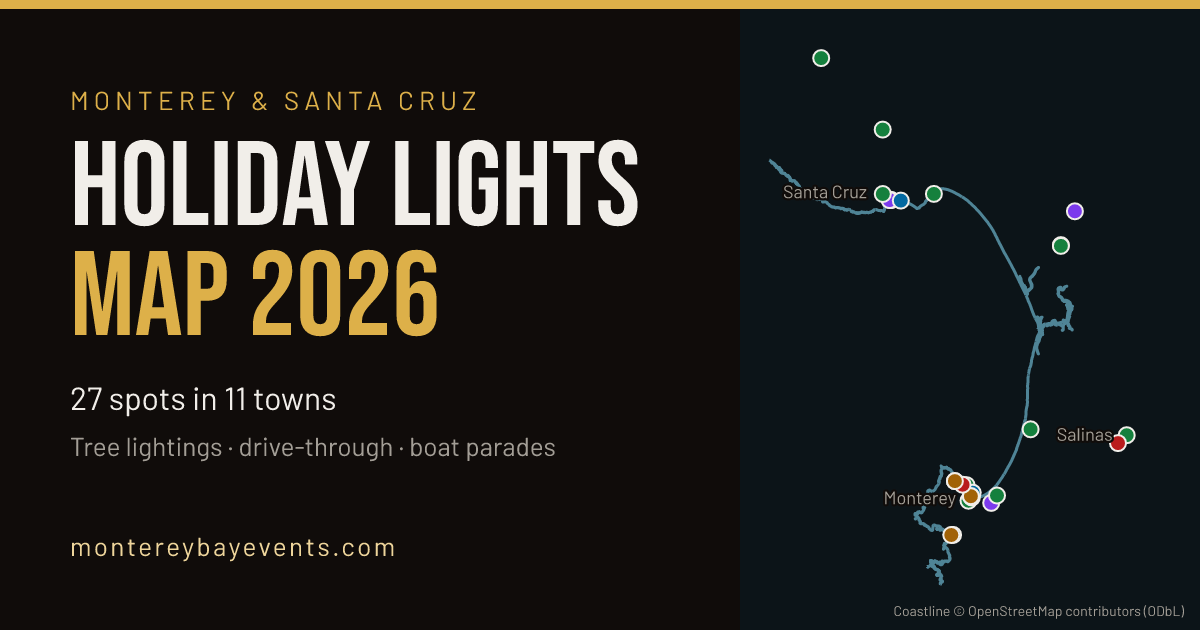
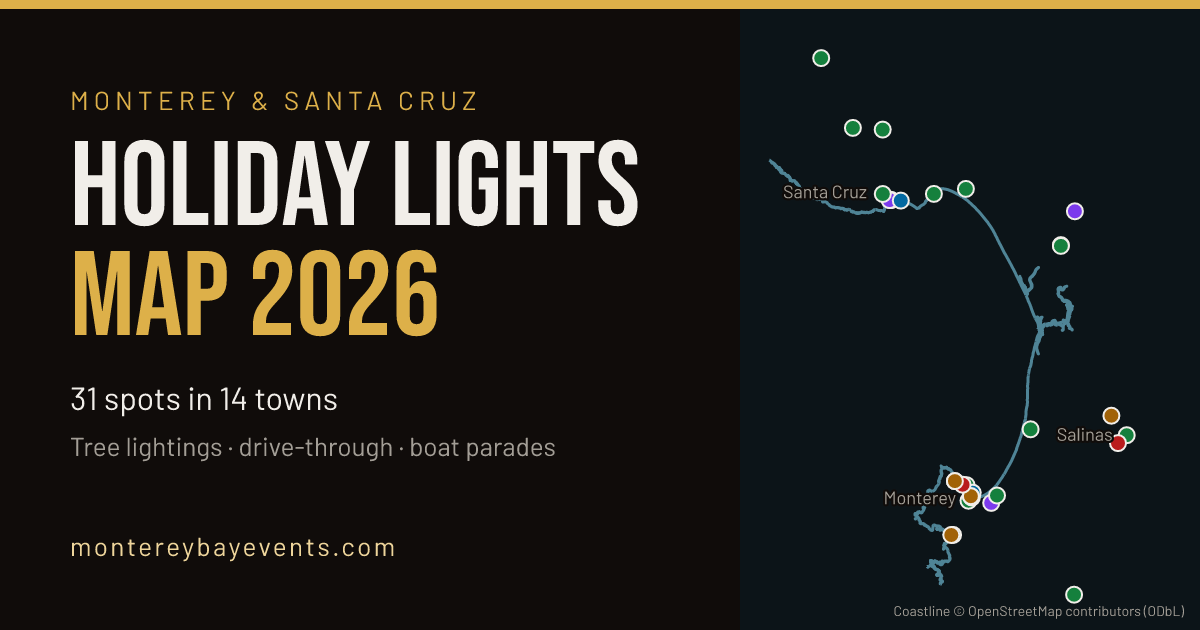
v2.T — lights map review fixes: +4 spots (31, 14 towns), wharf hours, route wording, form
- New: Carmel Valley, Aptos and Felton tree lightings; Illumination at the Boronda Adobe
- Christmas on the Wharf: published Santa hours replace the unpublished 9am–10pm lit hours
- Santa Cruz route timing, "routes" not loops, tree-lighting count includes the Boardwalk drone show
- Season dates derived from data (21 Nov); suggest form marks required fields, honeypot unlabelled
- Outreach counts, OG image, PRD row updated

diff --git a/src/__tests__/holidayLights.test.js b/src/__tests__/holidayLights.test.js
@@ -79,3 +79,47 @@ describe('guide links', () => {
     expect(src).not.toMatch(/label: "[^"]*→",/);
   });
 });
+
+// Review fixes, 2026-11-24.
+describe.skipIf(!existsSync(join(root, 'dist', 'holiday-lights', 'index.html')))('/holiday-lights/ review fixes (built)', () => {
+  const html = readFileSync(join(root, 'dist', 'holiday-lights', 'index.html'), 'utf8');
+  const text = html.replace(/<[^>]+>/g, ' ').replace(/\s+/g, ' ');
+
+  it('publishes no lit-hours figure for Christmas on the Wharf', () => {
+    expect(html).not.toContain('9am–10pm');
+    expect(html).not.toContain('lit to 10pm');
+  });
+
+  it('counts the Boardwalk drone show among the tree lightings', () => {
+    const n = data.entries.filter((e) => e.category === 'tree-lighting' || /tree lighting/i.test(e.name)).length;
+    expect(text).toContain(`${n} tree lightings between`);
+  });
+
+  it('starts the season on the earliest date in the data', () => {
+    const first = data.entries.map((e) => e.range?.from ?? e.nights[0]).sort()[0];
+    expect(first).toBe('2026-11-21');
+    expect(text).toContain('21 November 2026 – 3 January 2027');
+  });
+
+  it('describes the Santa Cruz timing as the data has it', () => {
+    expect(text).not.toContain('within half an hour');
+    expect(text).toContain('between 5pm and 6pm');
+  });
+
+  it('calls them routes, not loops', () => {
+    expect(text).not.toMatch(/\bloops?\b/i);
+  });
+
+  it('marks required suggest fields and has no visible honeypot label', () => {
+    expect(html).not.toContain('Leave empty');
+    expect((html.match(/aria-required="true"/g) ?? []).length).toBe(2);
+    expect(text).toContain('are required');
+  });
+});
+
+describe('holiday lights towns', () => {
+  it('lists every town in the data in LIGHTS_TOWNS order', () => {
+    const src = readFileSync(join(root, 'src', 'data', 'holidayLights.ts'), 'utf8');
+    for (const t of new Set(data.entries.map((e) => e.town))) expect(src, t).toContain(`"${t}"`);
+  });
+});

diff --git a/src/data/holidayLights.ts b/src/data/holidayLights.ts
@@ -44,8 +44,8 @@ export const lights = raw.entries as LightsEntry[];
 
 /** Towns in map order: Monterey Peninsula, Salinas Valley, Pajaro, then Santa Cruz County north. */
 export const LIGHTS_TOWNS = [
-  "Monterey", "Pacific Grove", "Carmel", "Seaside", "Marina", "Salinas",
-  "Watsonville", "Capitola", "Santa Cruz", "Scotts Valley", "Boulder Creek",
+  "Monterey", "Pacific Grove", "Carmel", "Carmel Valley", "Seaside", "Marina", "Salinas",
+  "Watsonville", "Aptos", "Capitola", "Santa Cruz", "Scotts Valley", "Felton", "Boulder Creek",
 ] as const;
 
 export const firstNight = (e: LightsEntry) => e.range?.from ?? e.nights![0]!;

diff --git a/docs/prd.md b/docs/prd.md
@@ -138,7 +138,7 @@ Two-level versioning convention (canonical: `sites/portfolio/AI_AGENTS.md`):
 | **v2.Q** | `/events/pacific-grove/` — the first city hub | Lifts the v1.B city-hub deferral for **one** town, on the operator's direction 2026-11-01. Evidence it was due: GSC (Aug 1 – Oct 30) shows real Pacific Grove demand — the Butterfly Parade page at pos 2.6–4.9 for its variants (81 clicks), "pacific grove events today" at pos 1 on `/events/october/`, and "pacific grove car show" scattered over five pages at pos 25–93 with no page that owns it. Ahrefs had no API units left, so no external volume figure exists for "pacific grove events". (1) **URL `/events/pacific-grove/`**, a static route beside `[month].astro` — the shape every later city hub copies. (2) **Built entirely from the data:** 3 regional rows whose city is Pacific Grove, rows whose CSV city text names it (half marathon, labelled "partly"), the 6 Car Week 2026 events whose venue address is in town (4 free per `access`), and the Monday farmers market. Direct answer, weekend answer and FAQ are computed at build, so the daily rebuild keeps them current. Schema: CollectionPage + ItemList (9) + BreadcrumbList + FAQPage (5). (3) **`src/data/cityHubs.ts`** is the registry; event pages ("More events in {city} →"), the homepage town list and `/events/` link a town only when it is there. **Scoped:** the event-page link renders on the 3 Pacific Grove pages only, and the homepage change touches the one town. Footer and nav untouched. (4) **Trap:** after 14 Nov the hub has no upcoming dated row until the 2027 calendar exists; the empty state says so rather than padding. Other towns stay deferred — add one only with its own evidence | ✅ shipped — live (deploy confirmed 2026-11-01). IndexNow pinged for the event page, the hub, `/events/november/` and `/events/` |
 | **v2.R** | Aria page sourced line-by-line; regional address spacing; Car Week notices seasonal | Operator brief 2026-11-01. (1) **Aria content audited against the choir's two pages** and anything on neither removed: the email's **2:30pm door time** (so `doorTime` no longer emits), "gospel and spirituals", "twelfth-century abbess", "Renaissance". Monteverdi is "early Baroque" on the operator's word. Meta description set to the operator's text. Sources: prices, fees, "the Butterfly Church", performers and per-piece composers from `ariamonterey.ticketspice.com/aria-where-mercy-dwells`; 3:00pm, the address and the timed programme (3:00–3:25, 15-min intermission, 3:40–4:05, "Finish time: 4:05pm") from `ariamonterey.org/dbpage.php?dbase=events&id=348597&pg=view`. **The two pages disagree twice**, and the page states the first rather than resolving it: TicketSpice's Act I has a seventh piece (Great Is Thy Faithfulness) the timed programme lacks — so **no `endDate` is emitted** — and TicketSpice gives "915 Sunset Ave" where the choir's page gives "Dr". (2) **"Pacific Grove , Monterey County"** — Astro renders the newline between adjacent `{}` expressions as a space; the Where block is now one expression. Was on all 54 regional `/event/` pages; 0 after. (3) **`src/data/season.ts`** — `CAR_WEEK_SEASON = { from: "07-01", to: "08-31" }`, month-day with no year, evaluated at build and flipped by the daily rebuild. Gates every "Text CARWEEK" mention (footer on every page, `/traffic/` card and transit entry, the Car Week hub's "Before you drive" sentence) and the Car Week paragraph at the foot of every regional event page, whose copy is now year-neutral instead of "ran August 7–16" / "runs August 7–16". Nav links, listings and Car Week pages are not notices and are not gated. Verified both ways by building with a widened range: 125 pages carry CARWEEK in season, 0 now | ✅ shipped — live (deploy confirmed 2026-11-01). IndexNow pinged for the event URL |
 | **v2.S** | Thanksgiving weekend 2026: `/thanksgiving/` hub + holiday event pages | Operator brief 2026-11-24, deadline Wed 25 Nov. (1) **Event pages** on the regional `/event/<slug>/` template for Cannery Row Holiday Tree Lighting (Fri 27 Nov), Pacific Grove Christmas Tree Lighting (Mon 30 Nov; venue conflict Grand & Forest vs Jewell Park to resolve from the City), Carmel Holiday Tree Lighting + Carmel Plaza party (Fri 4 Dec), and the 2026 turkey trots (Monterey, Santa Cruz, Salinas, Carmel, Capitola) and Black Friday / Small Business Saturday events (Carmel, PG, downtown Santa Cruz, Capitola). Every date, time and venue checked on the organiser's or city's own page; unverifiable events skipped and listed; source URL on each page. (2) **`/thanksgiving/` hub** titled "Thanksgiving Weekend 2026 in Monterey & Santa Cruz (Nov 26–29)": events by day Thu–Sun, sections for turkey trots, tree lightings, shopping, and Thanksgiving Day things to do (Boardwalk Winter Wonderland, beaches, hikes, aquarium — hours only where sourced); FAQ with FAQPage JSON-LD; ItemList JSON-LD. (3) **Nav + homepage:** header nav "Car Week" → "Holidays" (→ `/thanksgiving/`) until 4 Jan, gated by a date range in `src/data/season.ts` (Car Week stays in the footer); Thanksgiving banner above "This weekend"; "This weekend" shows the new events. (4) **Internal links** from `/events/november/`, `/events/december/`, the homepage Holidays category tile and `/events/pacific-grove/` only (no other town hubs exist; operator chose not to build them). (5) **Ship:** sitemap (not broken — `/sitemap-index.xml` 200, robots points there; `/sitemap.xml` was never a URL), IndexNow for every new and changed URL, JSON-LD checked with a schema validator (Google's Rich Results Test has no API). Placed ahead of the maps (now v2.U–v2.X) for the date. **Built:** 13 new regional rows (CSV 62 → 75), each checked on the organiser's or city's own page 2026-11-24: CVAC Turkey Trot, Run For Pie (Soquel), Ice Skating by the Bay, Cannery Row tree lighting, Carmel Plaza Black Friday, Makers Market pop-up (SC), Surfin' Santa (Capitola), Salinas Tree For Peace, Salinas Parade of Lights, Sparky's Holiday Lights (Watsonville), Winter Wonderfest Monterey (Fairgrounds), PG tree lighting, Carmel Holidays in the Park; Winter Wonderland row given the Boardwalk's press-release facts. **Corrections to the brief:** Cannery Row runs 2–9pm with the lighting ~5:45–6 (not 5–7) and its page gives no "700 Cannery Row"; PG is at Jewell Park per the City and ends 7:30pm; Carmel's times are only on Visit Carmel (City's detail page 403) so they are `unconfirmed` and kept out of JSON-LD. **Skipped:** Santa Cruz Turkey Trot (Sat 21 Nov), no 2026 turkey trot found for Monterey/PG/Salinas/Capitola, no PG Black Friday/SBS event, downtown SC sidewalk sale (2020 page), Roaring Camp Holiday Lights Train (no year on its page). **Unverified and said so on the page:** Boardwalk daily hours and the aquarium's Thanksgiving hours (both sites block automated reads). **Nav:** `holidayNavItem()` in `season.ts` → BaseLayout passes it to the header island as a prop (computed at build, so hydration matches); Holidays → `/thanksgiving/` to 29 Nov, then `/events/december/`, until 4 Jan. Header test rewritten to allow the seasonal slot. Suite green 385 + 51. **Trap:** the homepage banner and the Thanksgiving→December nav switch both depend on the daily rebuild Worker. | ✅ live (deploy confirmed 2026-11-24, ed0819a; IndexNow 20 URLs) |
-| **v2.T** | Holiday Lights Map 2026 at `/holiday-lights/` | Operator brief 2026-11-24, deadline Fri 27 Nov; a link-earning page. (1) **Data** in `data/holiday-lights-2026.json`: tree lightings, decorated downtowns, drive/walk-through displays, lighted boat parades, ice rinks, Boardwalk Winter Wonderland, Christmas in the Adobes, decorated neighbourhoods. Fields: name, category, town, address, lat/lng, dates, hours, cost, free, parking tip, source URL, last_verified. An entry ships only when an official/organiser page — or, for neighbourhood displays, a local news outlet — confirms it for 2026; Reddit may surface candidates but is never the source (operator 2026-11-24). Coordinates geocoded from OSM. Aim 40+ across 13 towns; the count is whatever verifies, never padded. Skipped entries listed. (2) **Page:** Leaflet + OSM map (markers by category; filters town / category / free / open tonight), server-rendered list by town below it, three route loops (Monterey Peninsula, Santa Cruz, Salinas/Watsonville) with Google Maps directions links, Free and Best-for-kids callouts, embed box (iframe linking back), FAQ + FAQPage JSON-LD, ItemList + Event JSON-LD for dated entries, OG image (static map + title). (3) **Suggest a spot:** Pages Function writes submissions to a KV namespace for operator review; nothing auto-publishes (operator 2026-11-24). (4) **SEO + links:** title "Holiday Lights Map 2026 — Monterey & Santa Cruz Christmas Lights (40+ Spots)" (count claim only if true); mobile first, Lighthouse 90+; linked from the homepage banner, Holidays nav, `/thanksgiving/`, `/events/december/`, `/events/pacific-grove/` and holiday event pages; sitemap; IndexNow. (5) **Outreach drafts** (not sent) in `outreach/holiday-lights-pitches.md`: 120-word pitch for Monterey Bay Parent, KION, KSBW, Monterey County Weekly, Santa Cruz Local, Lookout Santa Cruz; posts for r/monterey and r/santacruz. **Built:** 27 entries in 11 towns (Monterey 7, Santa Cruz 5, Pacific Grove 3, Watsonville 3, Carmel 2, Salinas 2, Seaside, Marina, Capitola, Scotts Valley, Boulder Creek 1 each); 11 free. The 40+ target did not verify, so the title carries no count (operator 2026-11-24: drop the number). Four entries whose source page prints no year ship with a visible note (operator: include all four): Noche de Brillo, Watsonville Holiday Lights in the Plaza, PG Holiday at the Inns (Tue 8 Dec only fits 2026), Boulder Creek Winter Festival; the Holiday Lights Train's year comes from the Boardwalk page, not Roaring Camp's. No decorated neighbourhood had 2026 local-news coverage, so none ship. Skipped: downtown SC Holiday Parade (daytime), Del Monte Center tree lighting (aggregator only), Roaring Camp Tree Walk (no year), Farley's / SC Holiday Glow Guide (2025 only), Felton tree lighting (aggregator), Candy Cane Lane and other street displays (blogs or old articles only). Coordinates: OSM Nominatim (`scripts/geocode-lights.py`); Jewell Park, Vince DiMaggio Park, both inn tours and Boulder Creek pin to the town and say so. Leaflet 1.9.4 + OSM tiles, lazy-loaded on scroll; circle markers. `/holiday-lights/embed/` is noindex, out of the sitemap, and the only path with X-Frame-Options lifted. Suggest a spot: `functions/api/suggest-spot.js` → KV binding `LIGHTS_SUGGESTIONS` (returns 503 until the binding exists). OG card `public/maps/og-holiday-lights.png` from `gen-maps.mjs` with an OSM coastline (`data/geo/monterey-bay-coast.osm.json`). Links: Holidays nav → `/holiday-lights/` after Thanksgiving, homepage banner to 3 Jan, Nov/Dec hubs, `/thanksgiving/`, `/events/pacific-grove/`, guideLink on 7 holiday rows (rink, Boardwalk WW, Carmel, Sparky's, Wonderfest, Adobes, SC boat parade). Also fixed: v2.S guideLink labels rendered a double arrow (14 rows). Outreach drafts in `outreach/holiday-lights-pitches.md`, unsent. Suite green 393 + 51. Lighthouse not run locally (no Chrome-capable Node); check with PageSpeed Insights after deploy. | ✅ live (deploy confirmed 2026-11-24, b815732; KV form verified; IndexNow 22 URLs; PSI pending — API quota) |
+| **v2.T** | Holiday Lights Map 2026 at `/holiday-lights/` | Operator brief 2026-11-24, deadline Fri 27 Nov; a link-earning page. (1) **Data** in `data/holiday-lights-2026.json`: tree lightings, decorated downtowns, drive/walk-through displays, lighted boat parades, ice rinks, Boardwalk Winter Wonderland, Christmas in the Adobes, decorated neighbourhoods. Fields: name, category, town, address, lat/lng, dates, hours, cost, free, parking tip, source URL, last_verified. An entry ships only when an official/organiser page — or, for neighbourhood displays, a local news outlet — confirms it for 2026; Reddit may surface candidates but is never the source (operator 2026-11-24). Coordinates geocoded from OSM. Aim 40+ across 13 towns; the count is whatever verifies, never padded. Skipped entries listed. (2) **Page:** Leaflet + OSM map (markers by category; filters town / category / free / open tonight), server-rendered list by town below it, three route loops (Monterey Peninsula, Santa Cruz, Salinas/Watsonville) with Google Maps directions links, Free and Best-for-kids callouts, embed box (iframe linking back), FAQ + FAQPage JSON-LD, ItemList + Event JSON-LD for dated entries, OG image (static map + title). (3) **Suggest a spot:** Pages Function writes submissions to a KV namespace for operator review; nothing auto-publishes (operator 2026-11-24). (4) **SEO + links:** title "Holiday Lights Map 2026 — Monterey & Santa Cruz Christmas Lights (40+ Spots)" (count claim only if true); mobile first, Lighthouse 90+; linked from the homepage banner, Holidays nav, `/thanksgiving/`, `/events/december/`, `/events/pacific-grove/` and holiday event pages; sitemap; IndexNow. (5) **Outreach drafts** (not sent) in `outreach/holiday-lights-pitches.md`: 120-word pitch for Monterey Bay Parent, KION, KSBW, Monterey County Weekly, Santa Cruz Local, Lookout Santa Cruz; posts for r/monterey and r/santacruz. **Built:** 27 entries in 11 towns (Monterey 7, Santa Cruz 5, Pacific Grove 3, Watsonville 3, Carmel 2, Salinas 2, Seaside, Marina, Capitola, Scotts Valley, Boulder Creek 1 each); 11 free. The 40+ target did not verify, so the title carries no count (operator 2026-11-24: drop the number). Four entries whose source page prints no year ship with a visible note (operator: include all four): Noche de Brillo, Watsonville Holiday Lights in the Plaza, PG Holiday at the Inns (Tue 8 Dec only fits 2026), Boulder Creek Winter Festival; the Holiday Lights Train's year comes from the Boardwalk page, not Roaring Camp's. No decorated neighbourhood had 2026 local-news coverage, so none ship. Skipped: downtown SC Holiday Parade (daytime), Del Monte Center tree lighting (aggregator only), Roaring Camp Tree Walk (no year), Farley's / SC Holiday Glow Guide (2025 only), Felton tree lighting (aggregator), Candy Cane Lane and other street displays (blogs or old articles only). Coordinates: OSM Nominatim (`scripts/geocode-lights.py`); Jewell Park, Vince DiMaggio Park, both inn tours and Boulder Creek pin to the town and say so. Leaflet 1.9.4 + OSM tiles, lazy-loaded on scroll; circle markers. `/holiday-lights/embed/` is noindex, out of the sitemap, and the only path with X-Frame-Options lifted. Suggest a spot: `functions/api/suggest-spot.js` → KV binding `LIGHTS_SUGGESTIONS` (returns 503 until the binding exists). OG card `public/maps/og-holiday-lights.png` from `gen-maps.mjs` with an OSM coastline (`data/geo/monterey-bay-coast.osm.json`). Links: Holidays nav → `/holiday-lights/` after Thanksgiving, homepage banner to 3 Jan, Nov/Dec hubs, `/thanksgiving/`, `/events/pacific-grove/`, guideLink on 7 holiday rows (rink, Boardwalk WW, Carmel, Sparky's, Wonderfest, Adobes, SC boat parade). Also fixed: v2.S guideLink labels rendered a double arrow (14 rows). Outreach drafts in `outreach/holiday-lights-pitches.md`, unsent. Suite green 393 + 51. Lighthouse not run locally (no Chrome-capable Node); check with PageSpeed Insights after deploy. **Review fixes (operator, 2026-11-24):** +4 entries → 31 in 14 towns, 14 free: Carmel Valley tree lighting (date from park district minutes, times unpublished), Aptos Holiday Market & Tree Lighting (chamber flyer, year from file name and Visit Santa Cruz County), Felton Santa & Tree Lighting (FBCA 2026 page), Illumination at the Boronda Adobe (MCHS; year from Monterey Bay Parent). Soquel, Big Sur and decorated streets: nothing that meets the sourcing rule for 2026, so still 31 rather than 40+. Christmas on the Wharf: the unpublished 9am–10pm lit-hours figure is replaced with the published Santa hours. The Santa Cruz route says its stops start between 5pm and 6pm. The tree-lighting count includes the Boardwalk drone show. The eyebrow date comes from the data (21 Nov, Winter Wonderfest). Routes are called routes, one way. The suggest form marks its required fields, and the honeypot has no visible label. | ✅ live (deploy confirmed 2026-11-24, b815732; KV form verified; IndexNow 22 URLs; PSI pending — API quota) |
 | **v2.U** | Laguna Seca campground map on `/laguna-seca/camping/` | Target "laguna seca camping map" / "campground map" / "raceway camping" (GSC 90d to 2026-11-18: ~112 impressions, best positions 6–14, only the facility map ranks today). Campground areas, entrances, hook-up vs dry sites and day-use parking as the raceway's camping pages name them. Reuse the v2.L pipeline (OSM geometry, ODbL credit on the image; `scripts/gen-maps.mjs` SVG → PNG → WebP, rendered and committed, `make maps-check`; `src/data/visuals.ts` registry → `MapFigure.astro`, `ImageObject` JSON-LD, sitemap `<image:image>`). Every label checked against a primary source; anything unconfirmed marked `[VERIFY]`, never guessed. Operator-added 2026-11-21 (image search for impressions). | planned |
 | **v2.V** | Laguna Seca location & access map | Target "where is laguna seca" / "… raceway" / "… located" / "laguna seca parking" (~60 impressions, positions 5–19). A regional map: the raceway between Monterey and Salinas, Hwy 68 and the two entrances (resolve the "main entrance" naming conflict already noted in v2.L), Laureles Grade, nearest towns. On `/laguna-seca-map/` or its own page — decide at build. No drive times (v2.M rule). Reuse the v2.L pipeline (OSM geometry, ODbL credit on the image; `scripts/gen-maps.mjs` SVG → PNG → WebP, rendered and committed, `make maps-check`; `src/data/visuals.ts` registry → `MapFigure.astro`, `ImageObject` JSON-LD, sitemap `<image:image>`). Every label checked against a primary source; anything unconfirmed marked `[VERIFY]`, never guessed. Operator-added 2026-11-21 (image search for impressions). | planned |
 | **v2.W** | Monterey Car Week parking & shuttle map | Target "monterey car week parking" (24 impressions, position 12) and the parking questions on event pages. Official lots, shuttle stops and paid / free parking, only from organiser or city sources, each dated; events derived from `venues.ts` as in v2.M. Car Week 2027 dates per v2.H. Reuse the v2.L pipeline (OSM geometry, ODbL credit on the image; `scripts/gen-maps.mjs` SVG → PNG → WebP, rendered and committed, `make maps-check`; `src/data/visuals.ts` registry → `MapFigure.astro`, `ImageObject` JSON-LD, sitemap `<image:image>`). Every label checked against a primary source; anything unconfirmed marked `[VERIFY]`, never guessed. Operator-added 2026-11-21 (image search for impressions). | planned |

diff --git a/outreach/holiday-lights-pitches.md b/outreach/holiday-lights-pitches.md
@@ -1,7 +1,7 @@
 # Holiday Lights Map 2026 — outreach drafts (v2.T)
 
 Drafts only. Nothing here has been sent. Facts match `data/holiday-lights-2026.json`
-as of 2026-11-24 (27 spots, 11 towns, 11 free); recount before sending if entries change.
+as of 2026-11-24 (31 spots, 14 towns, 14 free); recount before sending if entries change.
 
 Page: https://montereybayevents.com/holiday-lights/
 Embed: https://montereybayevents.com/holiday-lights/embed/
@@ -10,9 +10,9 @@ Embed: https://montereybayevents.com/holiday-lights/embed/
 
 ## Monterey Bay Parent
 
-**Subject:** Free map: 27 places to see holiday lights with kids, Carmel to Boulder Creek
+**Subject:** Free map: 31 places to see holiday lights with kids, Carmel to Boulder Creek
 
-Hi — we've put every holiday lights event around Monterey Bay this season on one free map: 27 spots in 11 towns, from the Cannery Row tree lighting on Nov 27 to the Boardwalk's Winter Wonderland through Jan 3. Each one is checked against the organiser's own page, with dates, times, prices and parking. Parents can filter to free events or to what's on tonight, and there's a "best for kids" list: Santa by fire truck in Carmel, wagon rides in Marina, Winter Wonderfest (free for 5 and under). It might be useful for your December roundup, or you're welcome to embed the map on your site; the code is on the page.
+Hi — we've put every holiday lights event around Monterey Bay this season on one free map: 31 spots in 14 towns, from the Cannery Row tree lighting on Nov 27 to the Boardwalk's Winter Wonderland through Jan 3. Each one is checked against the organiser's own page, with dates, times, prices and parking. Parents can filter to free events or to what's on tonight, and there's a "best for kids" list: Santa by fire truck in Carmel, wagon rides in Marina, Winter Wonderfest (free for 5 and under). It might be useful for your December roundup, or you're welcome to embed the map on your site; the code is on the page.
 
 Monterey Bay Events — https://montereybayevents.com/holiday-lights/
 
@@ -22,7 +22,7 @@ Monterey Bay Events — https://montereybayevents.com/holiday-lights/
 
 **Subject:** Story idea: one map of every holiday lights event, Salinas to Santa Cruz
 
-Hi KION news desk — for your holiday coverage: we've mapped every holiday lights event around Monterey Bay this season, 27 spots in 11 towns, each confirmed on the organiser's or city's own page. It covers the Salinas Tree For Peace (Sat Nov 28) and Parade of Lights (Sun Nov 29), tree lightings in Seaside and Marina on Fri Dec 4, Monterey's Brighten the Harbor boat parade (Sun Dec 6) and the Sparky's drive-through in Watsonville. Viewers can filter by town, find free spots, or see what's on tonight. There's a Salinas-to-Watsonville route for Nov 28. The map can also be embedded on your site at no cost.
+Hi KION news desk — for your holiday coverage: we've mapped every holiday lights event around Monterey Bay this season, 31 spots in 14 towns, each confirmed on the organiser's or city's own page. It covers the Salinas Tree For Peace (Sat Nov 28) and Parade of Lights (Sun Nov 29), tree lightings in Seaside and Marina on Fri Dec 4, Monterey's Brighten the Harbor boat parade (Sun Dec 6) and the Sparky's drive-through in Watsonville. Viewers can filter by town, find free spots, or see what's on tonight. There's a Salinas-to-Watsonville route for Nov 28. The map can also be embedded on your site at no cost.
 
 Monterey Bay Events — https://montereybayevents.com/holiday-lights/
 
@@ -30,9 +30,9 @@ Monterey Bay Events — https://montereybayevents.com/holiday-lights/
 
 ## KSBW
 
-**Subject:** For your holiday guide: free map of 27 lights events around Monterey Bay
+**Subject:** For your holiday guide: free map of 31 lights events around Monterey Bay
 
-Hi KSBW team — if you're putting together a holiday lights guide, this may save some legwork. We've mapped 27 holiday lights events in 11 towns across Monterey and Santa Cruz counties, each checked against its organiser's page: tree lightings from Cannery Row (Nov 27) to Capitola's palm tree (Dec 5), both lighted boat parades, Christmas in the Adobes, Winter Wonderfest and the Sparky's drive-through. Each listing has the date, hours, price, parking and a directions link, and the map filters to free spots or tonight's events. You're welcome to link to it or embed it; it updates as we add spots.
+Hi KSBW team — if you're putting together a holiday lights guide, this may save some legwork. We've mapped 31 holiday lights events in 14 towns across Monterey and Santa Cruz counties, each checked against its organiser's page: tree lightings from Cannery Row (Nov 27) to Capitola's palm tree (Dec 5), both lighted boat parades, Christmas in the Adobes, Winter Wonderfest and the Sparky's drive-through. Each listing has the date, hours, price, parking and a directions link, and the map filters to free spots or tonight's events. You're welcome to link to it or embed it; it updates as we add spots.
 
 Monterey Bay Events — https://montereybayevents.com/holiday-lights/
 
@@ -42,7 +42,7 @@ Monterey Bay Events — https://montereybayevents.com/holiday-lights/
 
 **Subject:** Every Monterey County lights event of 2026 on one map
 
-Hi — we've built a map of this season's holiday lights around the bay, and Monterey County has most of it: Cannery Row's 32nd tree lighting, Colton Hall's on Dec 4, Christmas on the Wharf (lit daily Dec 1–Jan 3), Brighten the Harbor, Christmas in the Adobes, Winter Wonderfest at the fairgrounds, Pacific Grove's tree, Parade of Lights and Holiday at the Inns, Carmel's tree and menorah lighting, plus Salinas, Seaside and Marina. That's 27 spots in all, each sourced to the organiser's page, with prices, and the free ones marked. It might be handy for your calendar or a holiday-picks piece, and it can be embedded.
+Hi — we've built a map of this season's holiday lights around the bay, and Monterey County has most of it: Cannery Row's 32nd tree lighting, Colton Hall's on Dec 4, Christmas on the Wharf (lit daily Dec 1–Jan 3), Brighten the Harbor, Christmas in the Adobes, Winter Wonderfest at the fairgrounds, Pacific Grove's tree, Parade of Lights and Holiday at the Inns, Carmel's tree and menorah lighting, plus Salinas, Seaside and Marina. That's 31 spots in all, each sourced to the organiser's page, with prices, and the free ones marked. It might be handy for your calendar or a holiday-picks piece, and it can be embedded.
 
 Monterey Bay Events — https://montereybayevents.com/holiday-lights/
 
@@ -62,7 +62,7 @@ Monterey Bay Events — https://montereybayevents.com/holiday-lights/
 
 **Subject:** A sourced map of Santa Cruz County's holiday lights this season
 
-Hi Lookout team — in case it's useful for your holiday coverage: we've put every holiday lights event we could confirm for 2026 around Monterey Bay on one map, 27 spots in 11 towns. On the Santa Cruz side that's Winter Wonderland at the Boardwalk, the Holiday Lights Train, the Santa Cruz Yacht Club boat parade on Dec 5, tree lightings downtown, in Capitola, Scotts Valley and Boulder Creek, and the Sparky's drive-through. Every listing is sourced to the organiser's own page, with times and prices, or a note where they haven't published them. Readers can filter by town, free or tonight, and the map can be embedded.
+Hi Lookout team — in case it's useful for your holiday coverage: we've put every holiday lights event we could confirm for 2026 around Monterey Bay on one map, 31 spots in 14 towns. On the Santa Cruz side that's Winter Wonderland at the Boardwalk, the Holiday Lights Train, the Santa Cruz Yacht Club boat parade on Dec 5, tree lightings downtown, in Capitola, Scotts Valley and Boulder Creek, and the Sparky's drive-through. Every listing is sourced to the organiser's own page, with times and prices, or a note where they haven't published them. Readers can filter by town, free or tonight, and the map can be embedded.
 
 Monterey Bay Events — https://montereybayevents.com/holiday-lights/
 
@@ -70,7 +70,7 @@ Monterey Bay Events — https://montereybayevents.com/holiday-lights/
 
 ## r/monterey
 
-**Title:** I mapped every holiday lights event around Monterey this year (27 spots, with free ones marked)
+**Title:** I mapped every holiday lights event around Monterey this year (31 spots, with free ones marked)
 
 Put together a map of every tree lighting, boat parade and lights display I could confirm for 2026 on the organiser's own page: Cannery Row (Fri 11/27), PG (Mon 11/30), Colton Hall, Carmel, Seaside and Marina (all Fri 12/4), Brighten the Harbor (Sun 12/6), Christmas on the Wharf, Christmas in the Adobes (12/11–12), Winter Wonderfest at the fairgrounds, plus Salinas and the Santa Cruz side.
 
